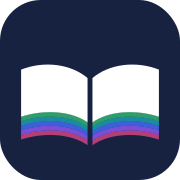
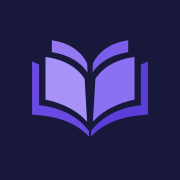
Add files via upload

diff --git a/index.html b/index.html
@@ -3,7 +3,7 @@
 <head>
 <meta charset="utf-8">
 <meta name="viewport" content="width=device-width, initial-scale=1, viewport-fit=cover">
-<meta name="theme-color" content="#F6F3FA">
+<meta name="theme-color" content="#F6F5FB">
 <title>Gayane Torosyan | English Reading Room</title>
 <link rel="icon" href="icon.svg" type="image/svg+xml">
 <link rel="icon" href="favicon-32.png" sizes="32x32" type="image/png">
@@ -18,24 +18,24 @@
 <link href="https://fonts.googleapis.com/css2?family=Literata:opsz,wght@7..72,400;7..72,600;7..72,700&family=Noto+Sans+Armenian:wght@400;500;600;700&family=Noto+Serif+Armenian:wght@600;700&display=swap" rel="stylesheet">
 <style>
 :root{
-  --paper:#F6F3FA; --surface:#FFFFFF; --ink:#1C1830; --muted:#716A86; --line:#E3DEEC;
-  --marker:#E6D7FF; --sent:rgba(121,87,213,.045); --wordhl:rgba(183,157,245,.52); --wordink:#221A38; --good:#1E8A5A; --bad:#C23B3B; --accent:#7957D5;
-  --A1:#2B8B68; --A2:#7957D5; --B1:#5571C9; --B2:#955EC4; --C1:#AF4C7C;
+  --paper:#F6F5FB; --surface:#FFFFFF; --ink:#18183A; --muted:#5E5E80; --line:#E3E1EF;
+  --marker:#FFE17A; --sent:rgba(246,196,40,.045); --wordhl:rgba(255,212,59,.55); --good:#1E8A5A; --bad:#C23B3B; --accent:#6C4CE4; --brand:#7A5CEB; --brand2:#A891F7;
+  --A1:#2E9E6A; --A2:#1C8AA3; --B1:#3E5FD9; --B2:#7A4FD6; --C1:#B23F78;
   --ui:"Noto Sans Armenian","Noto Sans",system-ui,-apple-system,"Segoe UI",sans-serif;
   --read:"Literata","Noto Serif Armenian",Georgia,serif;
-  --shadow:0 2px 6px rgba(28,24,48,.04),0 14px 34px rgba(43,31,75,.075);
+  --shadow:0 1px 2px rgba(24,24,58,.06),0 8px 24px rgba(24,24,58,.07);
   box-sizing:border-box;
   padding-top:env(safe-area-inset-top,0px); padding-bottom:env(safe-area-inset-bottom,0px);
 }
 @media (prefers-color-scheme:dark){:root:not([data-theme="light"]){
-  --paper:#100F1D; --surface:#1B192C; --ink:#F3EFFB; --muted:#B0A8C6; --line:#342E49; --marker:#624C83; --sent:rgba(183,157,245,.065); --wordhl:#B79DF5; --wordink:#1B1530;
-  --accent:#A98CF5; --A1:#55B98B; --A2:#AB91F4; --B1:#87A0F0; --B2:#C18DE6; --C1:#E27EA5; --shadow:0 14px 36px rgba(0,0,0,.22);
+  --brand:#A48EF7; --accent:#8C72F0; --paper:#0E1022; --surface:#181A36; --ink:#ECEBF7; --muted:#A9A7C8; --line:#2B2C4D; --marker:#6E5B10; --sent:rgba(255,214,64,.03); --wordhl:#EEC65B; --wordink:#141B33;
+  --shadow:none;
 }}
 :root[data-theme="dark"]{
-  --paper:#100F1D; --surface:#1B192C; --ink:#F3EFFB; --muted:#B0A8C6; --line:#342E49; --marker:#624C83; --sent:rgba(183,157,245,.065); --wordhl:#B79DF5; --wordink:#1B1530;
-  --accent:#A98CF5; --A1:#55B98B; --A2:#AB91F4; --B1:#87A0F0; --B2:#C18DE6; --C1:#E27EA5; --shadow:0 14px 36px rgba(0,0,0,.22);
+  --brand:#A48EF7; --accent:#8C72F0; --paper:#0E1022; --surface:#181A36; --ink:#ECEBF7; --muted:#A9A7C8; --line:#2B2C4D; --marker:#6E5B10; --sent:rgba(255,214,64,.03); --wordhl:#EEC65B; --wordink:#141B33;
+  --shadow:none;
 }
-:root{--r-sm:12px;--r-md:18px;--r-lg:24px;--tint:color-mix(in srgb,var(--lv,var(--accent)) 13%,transparent)}
+:root{--r-sm:10px;--r-md:14px;--r-lg:20px;--tint:color-mix(in srgb,var(--lv,var(--accent)) 13%,transparent)}
 *,*::before,*::after{box-sizing:inherit}
 html,body{margin:0}
 body{background:var(--paper);color:var(--ink);font-family:var(--ui);font-size:16px;line-height:1.5;-webkit-tap-highlight-color:transparent}
@@ -88,7 +88,14 @@ a{color:inherit}
 
 .outs{margin-left:auto;display:flex;gap:6px}
 .out{border:1.5px solid var(--line);background:transparent;border-radius:999px;padding:6px 12px;font-size:.85rem;color:var(--muted)}
-.lock{max-width:340px;margin:12vh auto 0;text-align:center}
+.lock{position:relative;max-width:340px;margin:12vh auto 0;text-align:center}
+.room{position:absolute;left:0;right:0;top:0;height:min(56vh,440px);background:url(room.jpg) 58% 45%/cover no-repeat;pointer-events:none;
+  -webkit-mask-image:linear-gradient(#000 0%,rgba(0,0,0,.85) 45%,transparent 100%);mask-image:linear-gradient(#000 0%,rgba(0,0,0,.85) 45%,transparent 100%)}
+.room::after{content:"";position:absolute;inset:0;background:linear-gradient(rgba(14,16,34,.35),rgba(14,16,34,.15) 40%,var(--paper))}
+.room+.lock{margin-top:min(30vh,250px)}
+.room+.lock .mark.big{box-shadow:0 18px 50px rgba(20,16,60,.45);border-radius:22%}
+.motto{margin:26px 0 0;font-family:var(--read);font-style:italic;color:var(--brand);font-size:1.05rem;opacity:.9}
+.motto::before{content:"";display:inline-block;width:34px;height:1px;background:currentColor;vertical-align:middle;margin-right:10px;opacity:.6}
 .lock .logo{margin:0 auto 14px;width:56px;height:56px;font-size:1.6rem}
 .lock h1{font-family:var(--read);font-size:2rem;margin:0}
 .lock .lead{margin:6px auto 26px}
@@ -100,9 +107,9 @@ a{color:inherit}
 .lock .lead svg{width:16px;height:16px}
 
 .mark{display:block;border-radius:22%;flex:none}
-.brand .tag,.lock .tag{margin:2px 0 0;color:var(--muted);font-family:var(--read);font-size:.95rem;letter-spacing:.02em}
+.brand .tag,.lock .tag{margin:3px 0 0;color:var(--brand);font-family:var(--ui);font-weight:600;font-size:.72rem;letter-spacing:.24em;text-transform:uppercase}
 .brand h1{font-size:1.3rem;white-space:nowrap}
-.brand .tag{font-size:.82rem;white-space:nowrap}
+.brand .tag{font-size:.6rem;letter-spacing:.2em;white-space:nowrap}
 .brand>div:not(.outs){min-width:0}
 .brand .mark{width:44px!important;height:44px!important}
 .outs{margin-left:auto;display:flex;gap:8px;flex:none}
@@ -112,7 +119,7 @@ a{color:inherit}
 .lock .lead{margin-top:18px}
 .sbrand{display:flex;align-items:center;gap:10px;padding-bottom:14px;margin-bottom:14px;border-bottom:1px solid var(--line)}
 .sbrand b{display:block;font-family:var(--read);font-size:1rem;line-height:1.2}
-.sbrand span{color:var(--muted);font-size:.8rem}
+.sbrand span{color:var(--brand);font-size:.58rem;font-weight:600;letter-spacing:.2em;text-transform:uppercase}
 
 .w{border-radius:3px;cursor:pointer;touch-action:manipulation}
 .w{transition:background-color .14s ease,box-shadow .14s ease,color .14s ease}
@@ -222,7 +229,7 @@ body.ra-open{overflow:hidden}
 .qrv.show{opacity:1}
 .qrbox{width:min(420px,100%);display:flex;flex-direction:column;gap:12px;transform:translateY(14px) scale(.98);transition:transform .3s cubic-bezier(.2,.8,.2,1)}
 .qrv.show .qrbox{transform:none}
-.qrcard{aspect-ratio:1080/1350;border-radius:var(--r-lg);overflow:hidden;background:#17132A;display:grid;place-items:center;box-shadow:0 24px 70px rgba(0,0,0,.45)}
+.qrcard{aspect-ratio:1080/1350;border-radius:var(--r-lg);overflow:hidden;background:#0E1022;display:grid;place-items:center;box-shadow:0 24px 70px rgba(0,0,0,.45)}
 .qrcv{width:100%;height:100%;display:block}
 .qrload svg{width:46px;height:46px;color:#A9B3CE;animation:qrp 1.1s ease-in-out infinite}
 @keyframes qrp{50%{opacity:.35}}
@@ -337,116 +344,7 @@ body.ra-open{overflow:hidden}
 .btn:active,.chip:active,.tri:active:not(:disabled),.play:active,.check:active,.speed:active,.pb:active,.app:active,.ibtn:active,.say:active,.aa:active,.out:active{transform:scale(.96)}
 .act:active{background:color-mix(in srgb,var(--ink) 8%,transparent)}
 .score.win{animation:pop .5s ease}
-	@media (prefers-reduced-motion:reduce){*,*::before,*::after{transition:none!important;animation:none!important}}
-	/* ---------- English Reading Room · premium identity ---------- */
-body{background:radial-gradient(ellipse 760px 340px at 50% -180px,rgba(168,140,245,.12),transparent 75%),var(--paper)}
-.wrap{max-width:780px;padding:30px 20px 84px}
-:focus-visible{outline-color:var(--accent)}
-.brand{position:relative;isolation:isolate;display:flex;align-items:center;gap:14px;min-height:138px;margin:0 0 24px;padding:20px 22px;border:1px solid rgba(210,194,247,.16);border-radius:26px;overflow:hidden;color:#F6F2FF;background:linear-gradient(125deg,#141126 0%,#1C1731 55%,#28203D 100%);box-shadow:0 18px 42px rgba(28,20,50,.22)}
-.brand::before{content:"";position:absolute;z-index:0;top:16px;right:18px;bottom:16px;width:35%;min-width:180px;border:1px solid rgba(215,198,255,.16);border-radius:16px;background:
-  radial-gradient(circle at 71% 28%,rgba(244,192,145,.72) 0 4%,transparent 4.5%),
-  linear-gradient(90deg,transparent 48.8%,rgba(224,211,255,.18) 49.3% 50.2%,transparent 50.7%),
-  linear-gradient(0deg,transparent 47.8%,rgba(224,211,255,.18) 48.3% 49.2%,transparent 49.7%),
-  linear-gradient(154deg,transparent 0 45%,rgba(102,82,144,.8) 45.5% 58%,transparent 58.5%),
-  linear-gradient(206deg,transparent 0 39%,rgba(147,117,176,.68) 39.5% 55%,transparent 55.5%),
-  linear-gradient(180deg,#332A47 0%,#3B304B 63%,#4B3A4D 100%);box-shadow:inset 0 0 28px rgba(237,215,255,.08)}
-.brand::after{content:"";position:absolute;z-index:0;right:30px;bottom:16px;width:31%;height:13%;border-bottom:3px solid rgba(220,199,255,.22);background:repeating-linear-gradient(90deg,transparent 0 7px,rgba(194,164,244,.23) 7px 13px,transparent 13px 23px);opacity:.6}
-.brand>*{position:relative;z-index:1}
-.brand .mark{width:54px!important;height:54px!important;border-radius:17%;box-shadow:0 8px 22px rgba(0,0,0,.24)}
-.brand>div:not(.outs){min-width:0}
-.brand h1{margin:0;color:#FFF;font-family:var(--read);font-size:1.48rem;line-height:1.12;letter-spacing:-.02em;white-space:nowrap}
-.brand .tag{margin:5px 0 0;color:#C6B9E7;font-family:var(--ui);font-size:.78rem;letter-spacing:.08em;text-transform:uppercase}
-.brand-motto{display:block;margin-top:7px;color:#A99BC9;font-size:.68rem;font-weight:600;letter-spacing:.12em;text-transform:uppercase}
-.outs{gap:8px}
-.outs .theme-t,.outs .out{width:42px;height:42px;border:1px solid rgba(221,208,255,.2);background:rgba(255,255,255,.075);color:#F6F2FF;backdrop-filter:blur(8px);transition:transform .2s ease,background-color .2s ease,border-color .2s ease}
-.outs .theme-t:hover,.outs .out:hover{background:rgba(255,255,255,.15);border-color:rgba(221,208,255,.42);transform:translateY(-2px)}
-.lead{margin:0 2px 18px;max-width:60ch;font-size:.96rem}
-.lvgrid{gap:12px}
-.lvcard{padding:16px 18px;border-radius:20px;transition:transform .24s cubic-bezier(.2,.8,.2,1),box-shadow .24s ease,border-color .24s ease}
-.lvbig{border-radius:17px;background:linear-gradient(145deg,color-mix(in srgb,var(--lv) 84%,white),var(--lv));box-shadow:0 8px 20px color-mix(in srgb,var(--lv) 26%,transparent)}
-.lvtxt b{font-size:1.17rem}
-.lvhead{margin:8px 0 20px;padding:14px 16px;border:1px solid var(--line);border-radius:20px;background:color-mix(in srgb,var(--lv) 5%,var(--surface));box-shadow:var(--shadow)}
-.item{padding:18px 18px 16px;border-radius:20px;box-shadow:var(--shadow);transition:transform .22s cubic-bezier(.2,.8,.2,1),box-shadow .22s ease,border-color .22s ease}
-.item::before{width:4px;background:linear-gradient(180deg,color-mix(in srgb,var(--lv) 68%,white),var(--lv))}
-.item h2{font-size:1.27rem}
-.lv{border-radius:999px;padding:3px 9px;letter-spacing:.025em}
-.btn{border-radius:12px;transition:transform .2s cubic-bezier(.2,.8,.2,1),box-shadow .2s ease,background-color .2s ease,border-color .2s ease}
-.btn-main,.check{background:linear-gradient(135deg,#6845BD,#8A68DB);color:#FFF;box-shadow:0 7px 17px rgba(105,72,191,.2)}
-.btn-main:hover,.check:hover{background:linear-gradient(135deg,#5E3FAE,#7957D0);box-shadow:0 10px 22px rgba(105,72,191,.28);transform:translateY(-1px)}
-.btn-ghost{border-color:color-mix(in srgb,var(--accent) 24%,var(--line));background:color-mix(in srgb,var(--accent) 3%,var(--surface))}
-.btn-ghost:hover{border-color:color-mix(in srgb,var(--accent) 46%,var(--line));background:color-mix(in srgb,var(--accent) 8%,var(--surface))}
-.chip[aria-pressed="true"],.chip2[aria-pressed="true"],.chip2.on{background:var(--accent);border-color:var(--accent);color:#FFF}
-.tri.main{background:linear-gradient(135deg,#6845BD,#8A68DB);border-color:transparent;color:#FFF}
-.back{color:var(--accent);font-weight:600}
-.lock{position:relative;isolation:isolate;max-width:390px;margin:10vh auto 0;padding:34px 30px 30px;border:1px solid rgba(220,205,255,.18);border-radius:28px;overflow:hidden;text-align:center;color:#F6F2FF;background:radial-gradient(ellipse at 50% 0%,rgba(143,104,211,.24),transparent 55%),linear-gradient(145deg,#141126,#211A37 72%,#2B2140);box-shadow:0 26px 64px rgba(30,20,53,.28)}
-.lock::before{content:"";position:absolute;z-index:-1;inset:auto -24px -66px auto;width:180px;height:180px;border:1px solid rgba(211,191,255,.13);border-radius:50%;box-shadow:0 0 0 22px rgba(211,191,255,.035),0 0 0 46px rgba(211,191,255,.025)}
-.lock .mark.big{margin-bottom:20px;box-shadow:0 10px 28px rgba(0,0,0,.24)}
-.lock h1{color:#FFF;font-size:2.05rem}
-.lock .tag{color:#C6B9E7}
-.lock .brand-motto{margin-top:9px;color:#A99BC9}
-.lock .lead{color:#D0C7E3;margin:18px auto 26px}
-.lock .label{color:#D0C7E3}
-.lock .pin{border-color:rgba(220,205,255,.22);background:rgba(255,255,255,.075);color:#FFF}
-.lock .pin:focus{border-color:#B49AF5;outline-color:#A98CF5}
-.lock .btn-main{min-height:50px;background:linear-gradient(135deg,#7450C8,#A07BEA);color:#FFF}
-.lock .err{color:#FFB6C6}
-.sbrand{min-height:62px;padding:10px 12px;margin:0 0 18px;border:1px solid rgba(220,205,255,.16);border-radius:18px;border-bottom:1px solid rgba(220,205,255,.16);background:linear-gradient(110deg,#151227,#28203D);color:#F6F2FF;box-shadow:0 10px 24px rgba(28,20,50,.13)}
-.sbrand .mark{border-radius:17%;box-shadow:0 4px 14px rgba(0,0,0,.2)}
-.sbrand span{color:#BEB2D9}
-.sbrand .theme-t{border-color:rgba(221,208,255,.2);background:rgba(255,255,255,.08);color:#F6F2FF}
-.essay-head h1{font-size:clamp(1.9rem,5vw,2.5rem);letter-spacing:-.025em}
-.player{border-radius:24px;border-color:color-mix(in srgb,var(--accent) 15%,var(--line));box-shadow:var(--shadow)}
-.play,.mplay{background:linear-gradient(145deg,#6845BD,#8A68DB);color:#FFF;box-shadow:0 8px 22px rgba(105,72,191,.24)}
-#seek::-webkit-slider-thumb,#mseek::-webkit-slider-thumb{background:var(--accent)}
-#seek::-moz-range-progress,#mseek::-moz-range-progress{background:var(--accent)}
-.ra-cur{border-left-color:var(--accent)}
-.ra-tool svg,.ra-n{color:var(--accent)}
-.ra-bar i.now,.ra-badge{background:var(--accent)}
-@media(max-width:560px){
-  .wrap{padding:18px 14px 76px}
-  .brand{min-height:116px;margin-bottom:20px;padding:14px 12px;gap:9px;border-radius:22px}
-  .brand::before{top:10px;right:9px;bottom:10px;width:32%;min-width:112px;opacity:.72}
-  .brand::after{right:15px;bottom:12px;width:28%;height:12%}
-  .brand .mark{width:44px!important;height:44px!important}
-  .brand h1{font-size:clamp(.91rem,4.2vw,1.12rem);white-space:normal}
-  .brand .tag{font-size:.65rem;letter-spacing:.045em;white-space:normal}
-  .brand-motto{display:none}
-  .outs{gap:4px}
-  .outs .theme-t,.outs .out{width:36px;height:36px}
-  .lock{margin:8vh 0 0;padding:30px 22px 24px;border-radius:24px}
-  .lvcard{gap:11px;padding:14px;border-radius:18px}
-  .item{padding:16px 14px 14px}
-  .actions .btn{padding:0 12px}
-  .sbrand{border-radius:16px}
-}
-/* Keep the polished, low-cost motion across the new visual system. */
-.lvcard{transition:transform .24s cubic-bezier(.2,.8,.2,1),box-shadow .24s ease,border-color .24s ease}
-.lvcard:active{transform:scale(.985)}
-@media(hover:hover){.lvcard:hover{transform:translateY(-3px);box-shadow:0 12px 28px rgba(43,31,75,.14);border-color:color-mix(in srgb,var(--lv) 38%,var(--line))}}
-.wcard{transition:transform .38s cubic-bezier(.2,.8,.2,1)}
-.backdrop{transition:opacity .3s ease}
-.sheet{transition:transform .42s cubic-bezier(.2,.8,.2,1)}
-.qrv{backdrop-filter:blur(8px);-webkit-backdrop-filter:blur(8px);transition:opacity .3s ease}
-.qrbox{transform:translateY(22px) scale(.96);transition:transform .4s cubic-bezier(.2,.8,.2,1)}
-.toast{transform:translate(-50%,14px) scale(.97);transition:transform .28s cubic-bezier(.2,.8,.2,1),opacity .2s ease}
-.play{position:relative;isolation:isolate}
-.play svg{position:relative;z-index:1}
-.play::after{content:"";position:absolute;z-index:0;inset:-5px;border:2px solid color-mix(in srgb,var(--lv,var(--accent)) 42%,transparent);border-radius:50%;opacity:0;transform:scale(.88);pointer-events:none}
-.mini{transition:transform .34s cubic-bezier(.2,.8,.2,1),visibility 0s linear .34s}
-.mini.show{transition:transform .34s cubic-bezier(.2,.8,.2,1)}
-.anim .st{transform-box:fill-box;transform-origin:center bottom;animation:stIn .72s cubic-bezier(.16,1,.3,1) both;animation-delay:calc(.22s + var(--i)*.075s)}
-.anim .pg{animation:pgIn .72s cubic-bezier(.16,1,.3,1) both .08s;transform-origin:256px 348px}
-@keyframes stIn{0%{transform:translateY(28px) scaleY(.72);opacity:0}72%{opacity:1}100%{transform:translateY(0) scaleY(1);opacity:1}}
-@keyframes pgIn{0%{transform:scaleY(.18);opacity:0}72%{opacity:1}100%{transform:scaleY(1);opacity:1}}
-.list.rise .item{animation:rise .52s cubic-bezier(.16,1,.3,1) both;animation-delay:calc(var(--d)*34ms)}
-@keyframes rise{0%{transform:translateY(16px) scale(.985);opacity:0}70%{opacity:1}100%{transform:translateY(0) scale(1);opacity:1}}
-.opt.right.flash{animation:pop .48s cubic-bezier(.16,1,.3,1)}
-.opt.wrong.flash{animation:nudge .4s cubic-bezier(.36,.07,.19,.97)}
-@keyframes pop{0%{transform:scale(1)}38%{transform:scale(1.025)}72%{transform:scale(.995)}100%{transform:scale(1)}}
-@keyframes nudge{20%{transform:translateX(-5px)}40%{transform:translateX(4px)}60%{transform:translateX(-3px)}80%{transform:translateX(2px)}100%{transform:translateX(0)}}
-.btn,.chip,.tri,.play,.check,.speed,.pb,.app,.act,.ibtn,.say,.aa,.out{transition:transform .2s cubic-bezier(.2,.8,.2,1),background-color .2s ease}
-.playing .play::after{animation:playGlow 1.8s ease-out infinite;will-change:transform,opacity}
-@keyframes playGlow{0%{opacity:.72;transform:scale(.88)}70%,100%{opacity:0;transform:scale(1.28)}}
+@media (prefers-reduced-motion:reduce){*,*::before,*::after{transition:none!important;animation:none!important}}
 </style>
 </head>
 <body>
@@ -465,7 +363,11 @@ const TEACHER_PIN_HASH = "03ac674216f3e15c761ee1a5e255f067953623c8b388b4459e13f9
 // Optional: an email raises the free translation limit from 5,000 to 50,000 characters per day.
 // Use a separate, throw-away email (it is visible in the page's network requests), not a personal one.
 const ESSAYS = window.ESSAYS || [];
-const LOGO_INNER = `<rect width="512" height="512" rx="116" fill="#17132A"/><path d="M249.0,413.0 C204.0,381.0 128.0,375.0 60.0,397.0 L60.0,383.4 C128.0,361.4 204.0,367.4 249.0,399.4 Z" fill="#7251BF" class="st" style="--i:0"/><path d="M263.0,413.0 C308.0,381.0 384.0,375.0 452.0,397.0 L452.0,383.4 C384.0,361.4 308.0,367.4 263.0,399.4 Z" fill="#7251BF" class="st" style="--i:0"/><path d="M249.0,400.0 C204.0,368.0 128.0,362.0 60.0,384.0 L60.0,370.4 C128.0,348.4 204.0,354.4 249.0,386.4 Z" fill="#805BD0" class="st" style="--i:1"/><path d="M263.0,400.0 C308.0,368.0 384.0,362.0 452.0,384.0 L452.0,370.4 C384.0,348.4 308.0,354.4 263.0,386.4 Z" fill="#805BD0" class="st" style="--i:1"/><path d="M249.0,387.0 C204.0,355.0 128.0,349.0 60.0,371.0 L60.0,357.4 C128.0,335.4 204.0,341.4 249.0,373.4 Z" fill="#936FDE" class="st" style="--i:2"/><path d="M263.0,387.0 C308.0,355.0 384.0,349.0 452.0,371.0 L452.0,357.4 C384.0,335.4 308.0,341.4 263.0,373.4 Z" fill="#936FDE" class="st" style="--i:2"/><path d="M249.0,374.0 C204.0,342.0 128.0,336.0 60.0,358.0 L60.0,344.4 C128.0,322.4 204.0,328.4 249.0,360.4 Z" fill="#A88FEB" class="st" style="--i:3"/><path d="M263.0,374.0 C308.0,342.0 384.0,336.0 452.0,358.0 L452.0,344.4 C384.0,322.4 308.0,328.4 263.0,360.4 Z" fill="#A88FEB" class="st" style="--i:3"/><path d="M249.0,361.0 C204.0,329.0 128.0,323.0 60.0,345.0 L60.0,331.4 C128.0,309.4 204.0,315.4 249.0,347.4 Z" fill="#BBA9F3" class="st" style="--i:4"/><path d="M263.0,361.0 C308.0,329.0 384.0,323.0 452.0,345.0 L452.0,331.4 C384.0,309.4 308.0,315.4 263.0,347.4 Z" fill="#BBA9F3" class="st" style="--i:4"/><path d="M249.0,348.0 C204.0,316.0 128.0,310.0 60.0,332.0 L60.0,198.0 C126.0,172.0 202.0,182.0 249.0,222.0 Z" fill="#F8F5FF" class="pg"/><path d="M263.0,348.0 C308.0,316.0 384.0,310.0 452.0,332.0 L452.0,198.0 C386.0,172.0 310.0,182.0 263.0,222.0 Z" fill="#F8F5FF" class="pg"/>`;
+const LOGO_INNER = `<rect width="512" height="512" rx="116" fill="#17183A"/><rect x="1.5" y="1.5" width="509" height="509" rx="114.5" fill="none" stroke="#FFFFFF" stroke-opacity=".08" stroke-width="3"/><g transform="translate(84.5 74) scale(.67)"><g><path class="st" style="--i:0" d="M10 150 L40 164 L40 336 C112 344 196 372 252 446 L252 470 C190 404 108 382 10 376 Z" fill="#6A49E2"/>
+<path class="st" style="--i:2" d="M88 54 C162 62 222 98 250 158 L252 222 C226 166 170 128 88 116 Z" fill="#9378F2" stroke="#17183A" stroke-width="12" paint-order="stroke"/>
+<path class="st" style="--i:1" d="M60 124 C134 130 204 164 240 222 L252 428 C210 370 140 334 60 318 Z" fill="#A891F7" stroke="#17183A" stroke-width="14" paint-order="stroke"/></g><g transform="translate(512 0) scale(-1 1)"><path class="st" style="--i:0" d="M10 150 L40 164 L40 336 C112 344 196 372 252 446 L252 470 C190 404 108 382 10 376 Z" fill="#5B3DD8"/>
+<path class="st" style="--i:2" d="M88 54 C162 62 222 98 250 158 L252 222 C226 166 170 128 88 116 Z" fill="#7B5DEB" stroke="#17183A" stroke-width="12" paint-order="stroke"/>
+<path class="st" style="--i:1" d="M60 124 C134 130 204 164 240 222 L252 428 C210 370 140 334 60 318 Z" fill="#8C70F2" stroke="#17183A" stroke-width="14" paint-order="stroke"/></g></g>`;
 const logoMark = (size, cls="") => `<span class="mark ${cls}" style="width:${size}px;height:${size}px" aria-hidden="true"><svg viewBox="0 0 512 512">${LOGO_INNER}</svg></span>`;
 const REDUCED = () => matchMedia("(prefers-reduced-motion: reduce)").matches;
 let chimeEl=null;
@@ -524,11 +426,11 @@ let sessionOK=false;
 function lockScreen(){
   document.title="Gayane Torosyan | English Reading Room";
   app.innerHTML=`
+  <div class="room" aria-hidden="true"></div>
   <section class="lock">
     ${logoMark(84,"big anim")}
     <h1>Gayane Torosyan</h1>
     <p class="tag">English Reading Room</p>
-    <p class="brand-motto">Better readers. Bigger dreams.</p>
     <p class="lead">${ICO.lock}Մուտք միայն ուսուցչի համար</p>
     <form id="lockForm" autocomplete="off">
       <label for="pin" class="label">PIN կոդ</label>
@@ -536,6 +438,7 @@ function lockScreen(){
       <p class="err" id="err" aria-live="polite"></p>
       <button class="btn btn-main" type="submit">Մուտք</button>
     </form>
+    <p class="motto">Let’s read together</p>
   </section>`;
   const pin=document.getElementById("pin"); pin.focus();
   document.getElementById("lockForm").onsubmit=async ev=>{
@@ -571,7 +474,7 @@ function teacher(listAnim){
   const lvParam=new URLSearchParams(location.search).get("lv");
   const lv=LEVELS.includes(lvParam)?lvParam:null;
   const head=`<header>
-    <div class="brand">${logoMark(52, firstPaint?"anim":"")}<div><h1>Gayane Torosyan</h1><p class="tag">English Reading Room</p><span class="brand-motto">Better readers. Bigger dreams.</span></div><div class="outs"><button class="theme-t" id="themeBtn" type="button">${ICO.sun}${ICO.moon}</button><button class="out" id="logout" aria-label="Դուրս գալ" title="Դուրս գալ">${ICO.logout}</button></div></div>
+    <div class="brand">${logoMark(52, firstPaint?"anim":"")}<div><h1>Gayane Torosyan</h1><p class="tag">English Reading Room</p></div><div class="outs"><button class="theme-t" id="themeBtn" type="button">${ICO.sun}${ICO.moon}</button><button class="out" id="logout" aria-label="Դուրս գալ" title="Դուրս գալ">${ICO.logout}</button></div></div>
   </header>`;
   if(!lv){
     app.innerHTML=head+`
@@ -734,7 +637,7 @@ function isDark(){ return themePref?themePref==="dark":systemDark(); }
 function applyPrefs(){
   const r=document.documentElement, dark=isDark();
   r.dataset.theme=dark?"dark":"light"; r.dataset.mode=dark?"dark":"light";
-  const m=document.querySelector('meta[name="theme-color"]'); if(m) m.setAttribute("content",dark?"#100F1D":"#F6F3FA");
+  const m=document.querySelector('meta[name="theme-color"]'); if(m) m.setAttribute("content",dark?"#0E1022":"#F6F5FB");
   const b=byId("themeBtn"); if(b) labelThemeBtn(b);
   if(!waveRAF&&byId("wave")) waveDraw();
 }
@@ -1013,7 +916,7 @@ function simAmp(t){                        // stand-in rhythm when no measured l
 }
 function waveColors(){
   const cs=getComputedStyle(app), g=n=>cs.getPropertyValue(n).trim();
-  return {played:g("--lv")||"#7957D5", rest:g("--muted")||"#716A86", ink:g("--ink")||"#1C1830"};
+  return {played:g("--lv")||"#3E5FD9", rest:g("--muted")||"#5A6583", ink:g("--ink")||"#172241"};
 }
 function rbar(ctx,x,y,w,h){
   const r=Math.min(w/2,h/2);
@@ -1139,7 +1042,7 @@ async function setupPlayer(e){
 }
 /* ---- Read-aloud mode (trial): the student reads each sentence aloud,
    can hear the model reading and can record and hear themselves ---- */
-const RA_LESSONS=new Set(["zoo"]);
+const RA_LESSONS=new Set([]);   // read-aloud trial is off; add a lesson id here to turn it on again
 let ra=null;
 function raSentences(){
   const sEls=[...app.querySelectorAll(".text .s")], all=[...app.querySelectorAll(".text .w")];
@@ -1300,7 +1203,7 @@ function raClose(now){
 document.addEventListener("keydown",ev=>{ if(ev.key==="Escape"&&ra) raClose(); });
 
 /* ---- QR code: a branded card mom can show on her phone or print ---- */
-const LV_HEX={A1:"#2B8B68",A2:"#7957D5",B1:"#5571C9",B2:"#955EC4",C1:"#AF4C7C"};
+const LV_HEX={A1:"#2E9E6A",A2:"#1C8AA3",B1:"#3E5FD9",B2:"#7A4FD6",C1:"#B23F78"};
 let qrLib=null, qrEl=null;
 function loadQRLib(){
   if(window.qrcode) return Promise.resolve();
@@ -1317,7 +1220,7 @@ function wrapLines(c,text,maxW){ const words=text.split(/\s+/), out=[]; let line
 async function drawQRCard(e){
   await loadQRLib();
   try{ await Promise.all(["700 58px Literata","600 40px Literata","400 28px Literata"].map(f=>document.fonts.load(f))); }catch{}
-  const link=linkFor(e), lv=LV_HEX[e.level]||"#7957D5", NAVY="#17132A";
+  const link=linkFor(e), lv=LV_HEX[e.level]||"#3E5FD9", NAVY="#121331";
   const q=qrcode(0,"H"); q.addData(link); q.make();
   const n=q.getModuleCount();
   const W=1080, H=1350, cv=document.createElement("canvas"); cv.width=W; cv.height=H;
@@ -1361,7 +1264,7 @@ async function drawQRCard(e){
   const cy=py+P+92; c.fillStyle="#fff"; c.font="700 38px system-ui, -apple-system, sans-serif"; c.fillText("Scan to open the lesson",W/2,cy);
   c.fillStyle="#C9D2EA"; c.font="400 32px system-ui, -apple-system, sans-serif"; c.fillText("Սկանավորիր՝ դասը բացելու համար",W/2,cy+52);
   // level stripes
-  ["#7251BF","#805BD0","#936FDE","#A88FEB","#BBA9F3"].forEach((col,i)=>{ c.fillStyle=col; c.fillRect(0,H-40+i*8,W,8); });
+  ["#2E9E6A","#1C8AA3","#3E5FD9","#7A4FD6","#B23F78"].forEach((col,i)=>{ c.fillStyle=col; c.fillRect(0,H-40+i*8,W,8); });
   return cv;
 }
 async function openQR(e){

diff --git a/build_pages.py b/build_pages.py
@@ -10,8 +10,8 @@ import html, json, os, pathlib
 ROOT = pathlib.Path(__file__).parent
 BASE = os.environ.get("BASE_URL", "https://98torosyan.github.io/english-reading/").rstrip("/") + "/"
 FONT = os.environ.get("FONT", "/tmp/Literata.ttf")
-LV = {"A1": "#2B8B68", "A2": "#7957D5", "B1": "#5571C9", "B2": "#955EC4", "C1": "#AF4C7C"}
-INK = "#17132A"
+LV = {"A1": "#2E9E6A", "A2": "#1C8AA3", "B1": "#3E5FD9", "B2": "#7A4FD6", "C1": "#B23F78"}
+INK = "#0E1022"
 
 src = (ROOT / "essays.js").read_text(encoding="utf-8")
 E = json.loads(src[src.index("["): src.rindex("]") + 1])
@@ -34,7 +34,7 @@ PAGE = """<!DOCTYPE html>
 <link rel="icon" href="../icon.svg" type="image/svg+xml">
 <meta http-equiv="refresh" content="0; url=../?e={id}">
 <script>location.replace("../?e={id}")</script>
-</head><body style="font-family:Georgia,serif;background:#17132A;color:#fff;text-align:center;padding:40px">
+</head><body style="font-family:Georgia,serif;background:#0E1022;color:#fff;text-align:center;padding:40px">
 <p><a style="color:#fff" href="../?e={id}">Open the lesson: {title}</a></p>
 </body></html>
 """
@@ -42,12 +42,12 @@ PAGE = """<!DOCTYPE html>
 def og_svg(e, F):
     from fontTools.pens.svgPathPen import SVGPathPen
     from fontTools.pens.transformPen import TransformPen
-    def tp(font, s, size, x, y):
+    def tp(font, s, size, x, y, track=0):
         gs, cmap, upm, hm = font.getGlyphSet(), font.getBestCmap(), font["head"].unitsPerEm, font["hmtx"]
         sc, pen, cx = size / upm, SVGPathPen(gs), x
         for ch in s:
             n = cmap.get(ord(ch)) or cmap[ord("?")]
-            gs[n].draw(TransformPen(pen, (sc, 0, 0, -sc, cx, y))); cx += hm[n][0] * sc
+            gs[n].draw(TransformPen(pen, (sc, 0, 0, -sc, cx, y))); cx += hm[n][0] * sc + track
         return pen.getCommands(), cx - x
     big, txt, sub = F
     # wrap title into max 3 lines
@@ -71,18 +71,20 @@ def og_svg(e, F):
     info_y = y0 + (len(lines) - 1) * size * 1.15 + 62
     info = tp(sub, f"Read · Listen · {len(e['qs'])} questions · ~{mins} min", 28, 472, info_y)[0]
     name = tp(txt, "Gayane Torosyan", 36, 470, 520)[0]
-    room = tp(sub, "English Reading Room", 26, 470, 560)[0]
+    room = tp(txt, "ENGLISH READING ROOM", 20, 471, 556, track=4.2)[0]
     icon = (ROOT / "icon.svg").read_text()
     inner = icon[icon.index(">") + 1: icon.rindex("</svg>")]
-    stripes = "".join(f'<rect x="0" y="{590 + i * 8}" width="1200" height="8" fill="{c}"/>' for i, c in enumerate(LV.values()))
+    stripes = '<rect x="0" y="622" width="1200" height="8" fill="url(#vl)"/>'
     return f'''<svg xmlns="http://www.w3.org/2000/svg" width="1200" height="630" viewBox="0 0 1200 630">
-<rect width="1200" height="630" fill="{INK}"/>
-<g transform="translate(70,125) scale(.66)">{inner.replace('fill="#17132A"', 'fill="#28213D"', 1)}</g>
-{lv}{title}<path d="{info}" fill="#D7D0E6"/><path d="{name}" fill="#fff"/><path d="{room}" fill="#BDB2D4"/>{stripes}
+<defs><radialGradient id="glow" cx="1040" cy="40" r="760" gradientUnits="userSpaceOnUse"><stop offset="0" stop-color="#7A5CEB" stop-opacity=".38"/><stop offset="1" stop-color="#7A5CEB" stop-opacity="0"/></radialGradient>
+<linearGradient id="vl" x1="0" x2="1"><stop offset="0" stop-color="#5B3DD8"/><stop offset="1" stop-color="#A891F7"/></linearGradient></defs>
+<rect width="1200" height="630" fill="{INK}"/><rect width="1200" height="630" fill="url(#glow)"/>
+<g transform="translate(70,125) scale(.66)">{inner.replace('#17183A', '#1C1D45')}</g>
+{lv}{title}<path d="{info}" fill="#C9C5E6"/><path d="{name}" fill="#fff"/><path d="{room}" fill="#A48EF7"/>{stripes}
 </svg>'''
 
 import hashlib
-CARD_DESIGN = "card-v3-premium-reading-room"   # redraw cards after the brand refresh
+CARD_DESIGN = "card-v3-violet"   # change to redraw every card
 logo_tag = hashlib.sha1((ROOT / "icon.svg").read_bytes() + CARD_DESIGN.encode()).hexdigest()[:12]
 tag_file = ROOT / "og" / ".logo"
 if not tag_file.exists() or tag_file.read_text().strip() != logo_tag:      # new logo -> redraw every card
